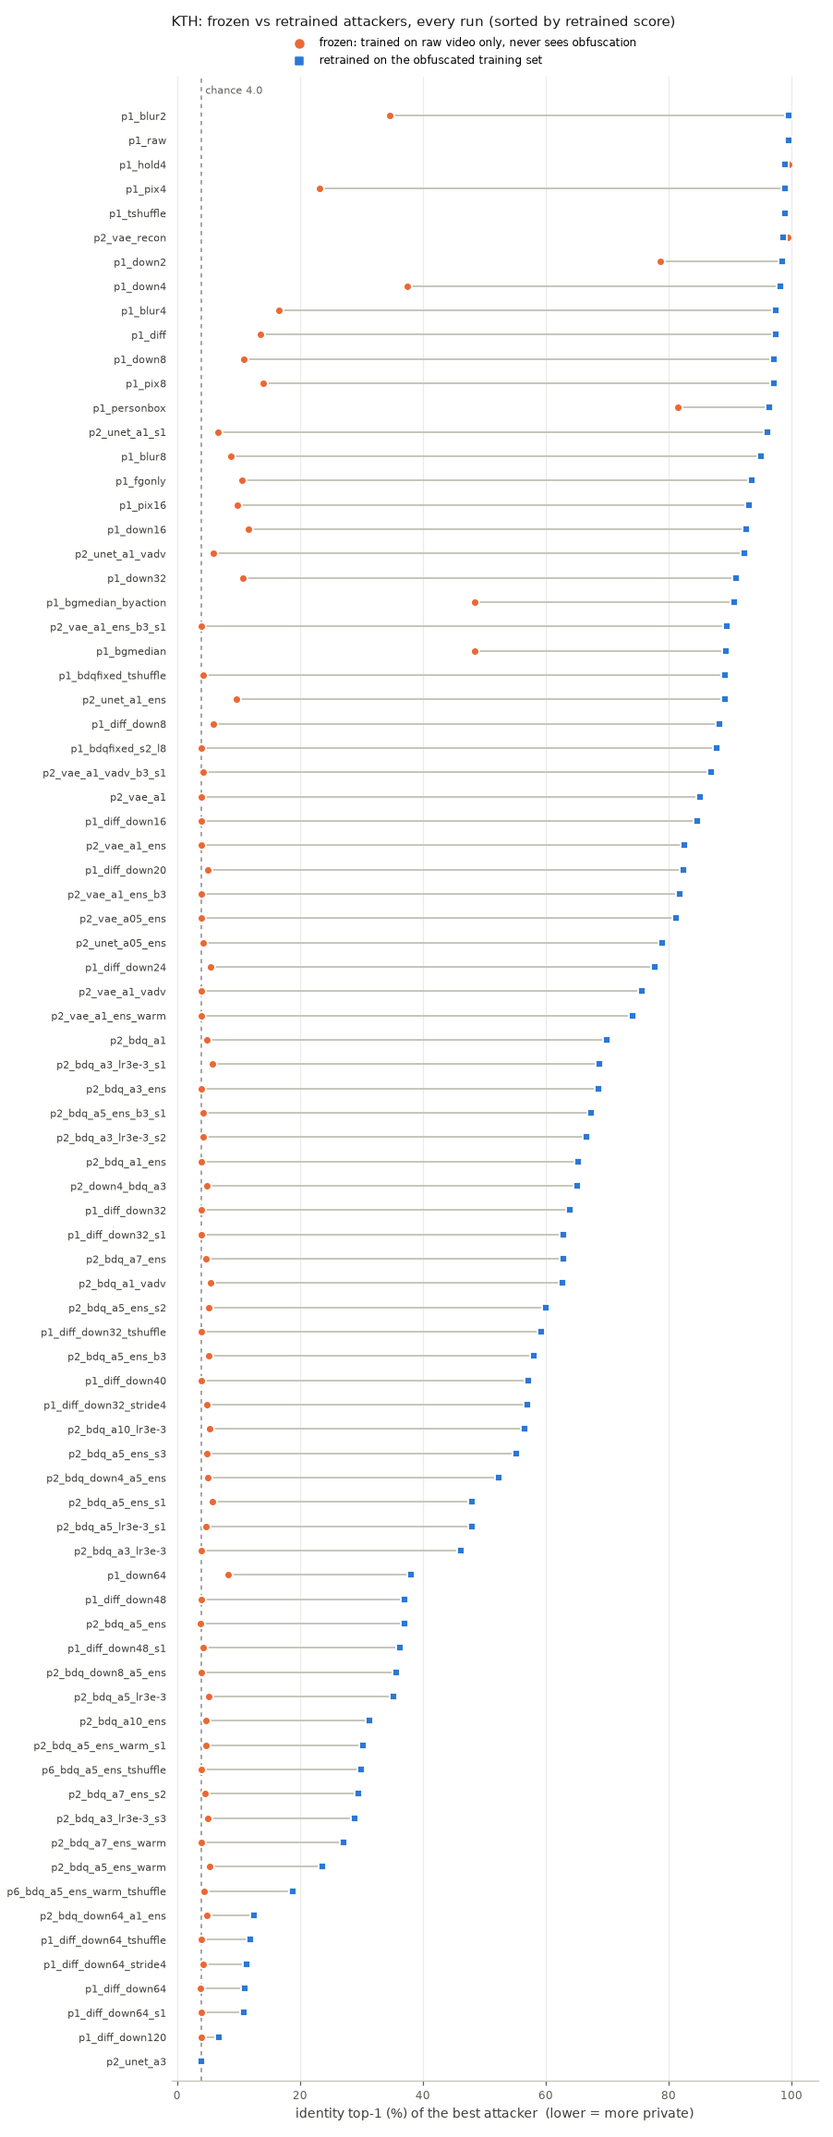
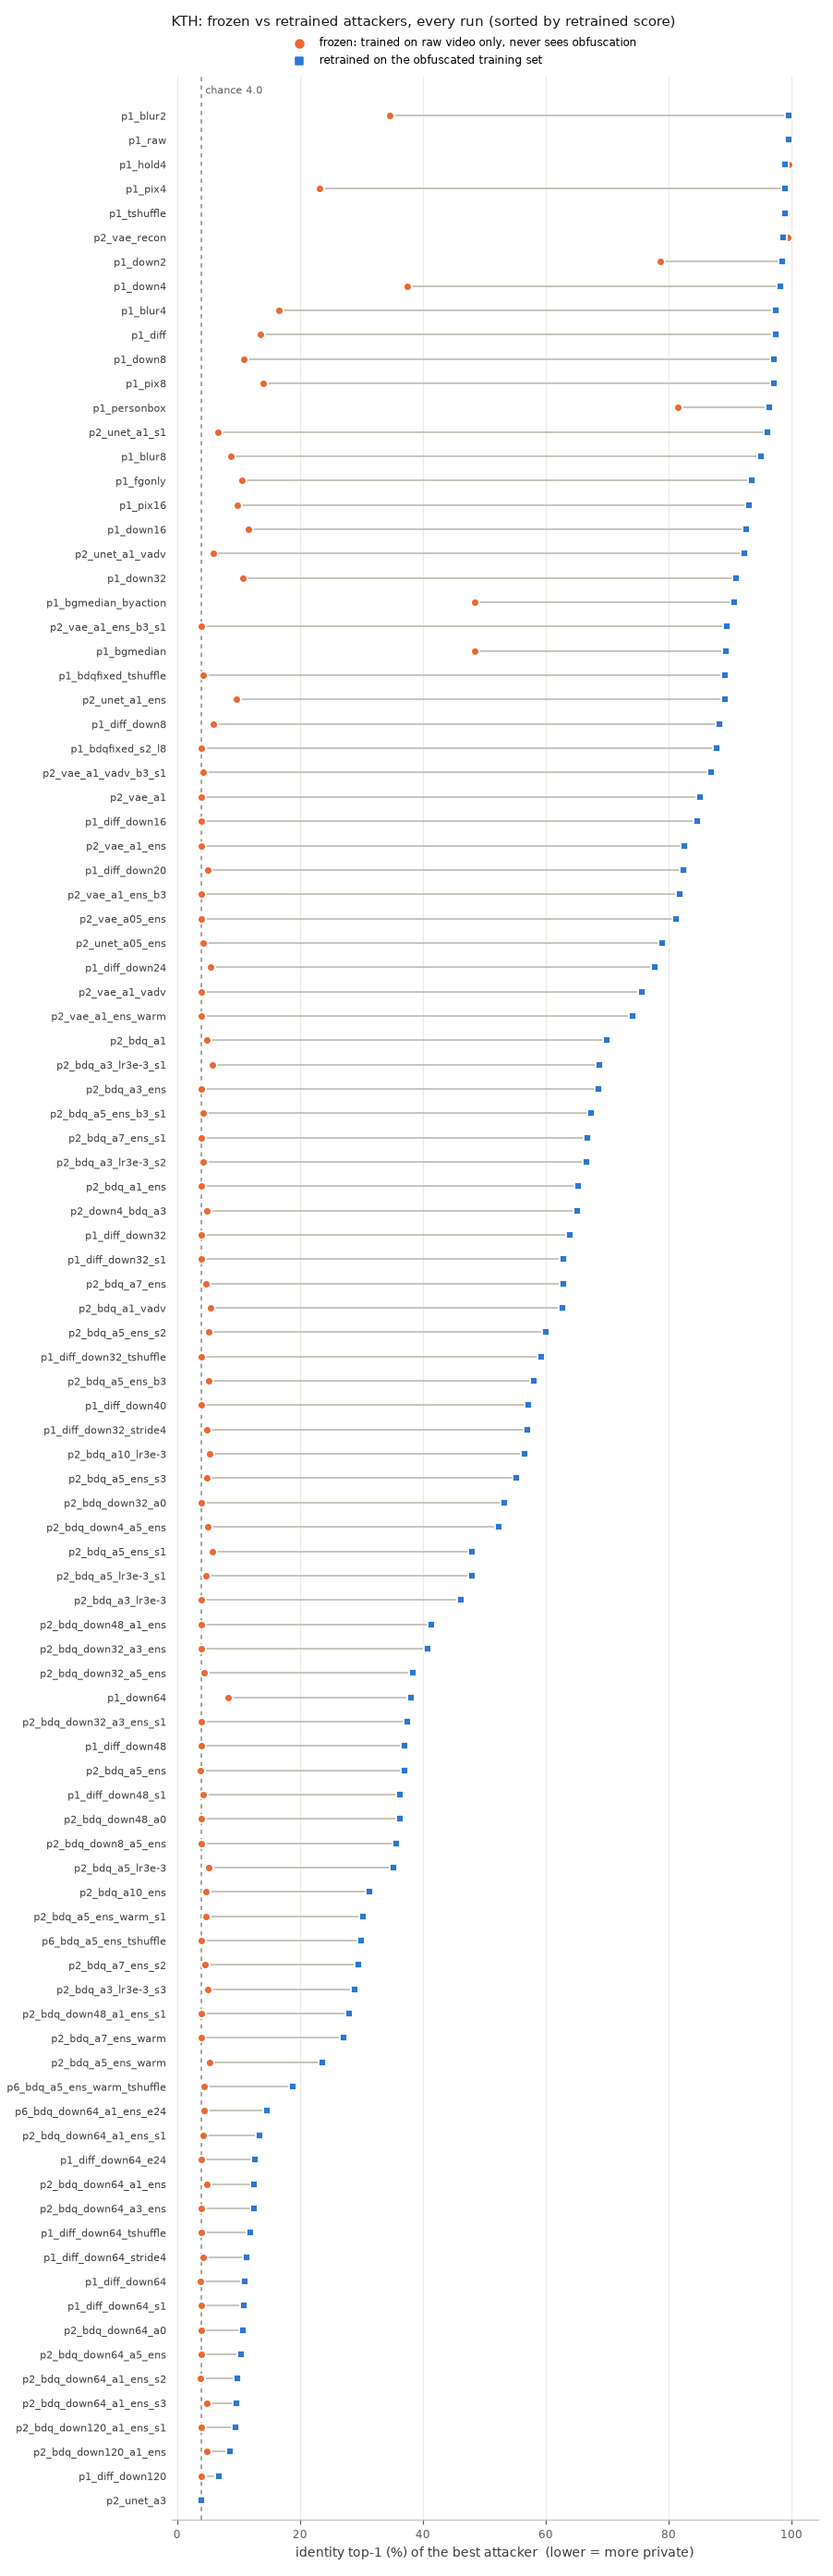
Frozen-attacker report: fix floor for computed-floor datasets; add VP-HMDB51 and Charades

diff --git a/research/privacy-obfuscation/scripts/frozen_attackers.py b/research/privacy-obfuscation/scripts/frozen_attackers.py
@@ -23,6 +23,7 @@ INFO = {
     "kth": dict(name="KTH", task="person", metric="identity top-1 (%)", floor=4.0, floor_label="chance 4.0"),
     "ucf101_vp": dict(name="VP-UCF101", task="attr", metric="attribute cMAP (%)", floor=58.7, floor_label="blind floor 58.7"),
     "hmdb51_vp": dict(name="VP-HMDB51", task="attr", metric="attribute cMAP (%)", floor=None, floor_label="blind floor"),
+    "charades": dict(name="Charades", task="person", metric="identity top-1 (%)", floor=100 / 90, floor_label="chance 1.1"),
 }
 
 
@@ -57,8 +58,7 @@ def f1(v):
     return "-" if v is None else f"{v:.1f}"
 
 
-def figure(ds, rs, path):
-    info = INFO[ds]
+def figure(ds, rs, path, info):
     rs = [r for r in rs if r["split"] in ("ilic", "s1", None)]
     n = len(rs)
     fig, ax = plt.subplots(figsize=(8.2, 0.24 * n + 1.6))
@@ -114,7 +114,7 @@ def main():
             info["floor_label"] = f"blind floor {info['floor']:.1f}"
 
         fig_path = os.path.join(ROOT, "results", "figures", f"frozen_vs_retrained_{ds}.png")
-        figure(ds, rs, fig_path)
+        figure(ds, rs, fig_path, info)
         non_raw = [r for r in rs if r["anon"]["type"] != "raw"]
         near_floor = [r for r in non_raw if r["frozen"] - info["floor"] < 0.25 * (r["retrained"] - info["floor"])]
         gaps = sorted(r["retrained"] - r["frozen"] for r in non_raw)

diff --git a/research/privacy-obfuscation/results/frozen_attackers.md b/research/privacy-obfuscation/results/frozen_attackers.md
@@ -11,8 +11,8 @@ Privacy is the best attacker's score (frame ResNet-50 or video R3D-18; DINOv2 ru
 
 ![frozen vs retrained](figures/frozen_vs_retrained_kth.png)
 
-- 91 obfuscated runs. Median gap retrained - frozen: **55.2 points**.
-- In 80 of 91 runs the frozen attacker recovers less than a quarter of what the retrained one does (above the floor): under the frozen protocol they would look private.
+- 115 obfuscated runs. Median gap retrained - frozen: **46.7 points**.
+- In 104 of 115 runs the frozen attacker recovers less than a quarter of what the retrained one does (above the floor): under the frozen protocol they would look private.
 
 | run | split | obfuscation | frozen action | frozen privacy (frame / video) | **frozen best** | **retrained best** | retrained action |
 |---|---|---|---:|---:|---:|---:|---:|
@@ -61,6 +61,7 @@ Privacy is the best attacker's score (frame ResNet-50 or video R3D-18; DINOv2 ru
 | p2_bdq_a3_lr3e-3_s1 | ilic | `bdq` | 32.6 | 4.8 / 5.7 | **5.7** | **68.7** | 94.5 |
 | p2_bdq_a3_ens | ilic | `bdq` | 31.6 | 4.0 / 3.8 | **4.0** | **68.6** | 96.7 |
 | p2_bdq_a5_ens_b3_s1 | ilic | `bdq` | 42.0 | 4.2 / 4.0 | **4.2** | **67.4** | 96.3 |
+| p2_bdq_a7_ens_s1 | ilic | `bdq` | 44.0 | 4.0 / 3.8 | **4.0** | **66.7** | 95.2 |
 | p2_bdq_a3_lr3e-3_s2 | ilic | `bdq` | 34.3 | 4.2 / 4.2 | **4.2** | **66.6** | 91.6 |
 | p2_bdq_a1_ens | ilic | `bdq` | 37.5 | 4.0 / 4.0 | **4.0** | **65.2** | 94.1 |
 | p2_down4_bdq_a3 | ilic | `down (factor 4) -> bdq` | 49.5 | 4.8 / 3.3 | **4.8** | **65.1** | 93.1 |
@@ -78,18 +79,28 @@ Privacy is the best attacker's score (frame ResNet-50 or video R3D-18; DINOv2 ru
 | p1_diff_down40 | ilic | `diff (gain 4.0) -> down (factor 40)` | 16.7 | 2.2 / 4.0 | **4.0** | **57.2** | 87.8 |
 | p1_diff_down32_stride4 | ilic | `diff (gain 4.0) -> down (factor 32)` | 16.7 | 4.8 / 4.0 | **4.8** | **57.0** | 93.6 |
 | p2_bdq_a10_lr3e-3 | ilic | `bdq` | 27.8 | 5.2 / 5.4 | **5.4** | **56.5** | 90.8 |
+| p2_bdq_a3_scenario_s2 | scenario | `bdq` | 25.2 | 4.0 / 4.2 | **4.2** | **55.7** | 73.7 |
 | p2_bdq_a5_ens_s3 | ilic | `bdq` | 29.3 | 4.8 / 4.7 | **4.8** | **55.2** | 92.3 |
 | p2_bdq_a5_ens_scenario | scenario | `bdq` | 45.2 | 4.3 / 4.8 | **4.8** | **54.0** | 78.7 |
+| p2_bdq_down32_a0 | ilic | `bdq -> down (factor 32)` | 16.7 | 4.0 / 3.5 | **4.0** | **53.2** | 89.5 |
 | p2_bdq_down4_a5_ens | ilic | `bdq -> down (factor 4)` | 23.7 | 3.8 / 5.0 | **5.0** | **52.3** | 90.6 |
 | p1_diff_down16_scenario | scenario | `diff (gain 4.0) -> down (factor 16)` | 16.5 | 2.0 / 4.0 | **4.0** | **50.7** | 81.0 |
+| p1_diff_down24_scenario | scenario | `diff (gain 4.0) -> down (factor 24)` | 16.7 | 4.0 / 2.7 | **4.0** | **50.3** | 69.0 |
 | p2_bdq_a5_ens_s1 | ilic | `bdq` | 30.1 | 5.2 / 5.7 | **5.7** | **48.0** | 86.5 |
 | p2_bdq_a5_lr3e-3_s1 | ilic | `bdq` | 26.9 | 4.7 / 4.2 | **4.7** | **48.0** | 90.3 |
 | p2_bdq_a3_lr3e-3 | ilic | `bdq` | 35.8 | 4.0 / 3.8 | **4.0** | **46.2** | 89.1 |
+| p2_bdq_a3_scenario_s3 | scenario | `bdq` | 39.7 | 5.7 / 3.7 | **5.7** | **44.7** | 74.2 |
 | p1_diff_down32_scenario | scenario | `diff (gain 4.0) -> down (factor 32)` | 16.7 | 3.8 / 2.2 | **3.8** | **42.7** | 58.0 |
+| p2_bdq_down48_a1_ens | ilic | `bdq -> down (factor 48)` | 16.7 | 4.0 / 4.0 | **4.0** | **41.3** | 82.9 |
+| p2_bdq_down32_a3_ens | ilic | `bdq -> down (factor 32)` | 16.7 | 3.8 / 4.0 | **4.0** | **40.8** | 93.0 |
+| p2_bdq_a3_scenario_s1 | scenario | `bdq` | 34.2 | 4.0 / 4.0 | **4.0** | **39.3** | 64.5 |
+| p2_bdq_down32_a5_ens | ilic | `bdq -> down (factor 32)` | 16.7 | 4.0 / 4.3 | **4.3** | **38.3** | 91.8 |
 | p1_down64 | ilic | `down (factor 64)` | 16.7 | 4.7 / 8.4 | **8.4** | **38.1** | 48.7 |
+| p2_bdq_down32_a3_ens_s1 | ilic | `bdq -> down (factor 32)` | 16.7 | 4.0 / 4.0 | **4.0** | **37.5** | 92.1 |
 | p1_diff_down48 | ilic | `diff (gain 4.0) -> down (factor 48)` | 16.7 | 2.7 / 4.0 | **4.0** | **37.0** | 83.6 |
 | p2_bdq_a5_ens | ilic | `bdq` | 28.8 | 3.8 / 3.7 | **3.8** | **37.0** | 84.4 |
 | p1_diff_down48_s1 | ilic | `diff (gain 4.0) -> down (factor 48)` | 16.7 | 4.2 / 4.0 | **4.2** | **36.3** | 82.4 |
+| p2_bdq_down48_a0 | ilic | `bdq -> down (factor 48)` | 16.7 | 4.0 / 4.0 | **4.0** | **36.3** | 83.3 |
 | p2_bdq_down8_a5_ens | ilic | `bdq -> down (factor 8)` | 16.7 | 4.0 / 2.8 | **4.0** | **35.6** | 82.8 |
 | p2_bdq_a5_lr3e-3 | ilic | `bdq` | 32.1 | 5.2 / 4.7 | **5.2** | **35.3** | 76.9 |
 | p2_bdq_a10_ens | ilic | `bdq` | 31.3 | 4.3 / 4.7 | **4.7** | **31.3** | 71.2 |
@@ -97,17 +108,30 @@ Privacy is the best attacker's score (frame ResNet-50 or video R3D-18; DINOv2 ru
 | p6_bdq_a5_ens_tshuffle | ilic | `bdq -> tshuffle` | 28.8 | 3.8 / 4.0 | **4.0** | **29.9** | 76.3 |
 | p2_bdq_a7_ens_s2 | ilic | `bdq` | 30.8 | 4.5 / 3.7 | **4.5** | **29.4** | 67.4 |
 | p2_bdq_a3_lr3e-3_s3 | ilic | `bdq` | 28.9 | 5.0 / 4.7 | **5.0** | **28.9** | 68.4 |
+| p2_bdq_down48_a1_ens_s1 | ilic | `bdq -> down (factor 48)` | 16.7 | 4.0 / 4.0 | **4.0** | **27.9** | 87.3 |
 | p2_bdq_a7_ens_warm | ilic | `bdq` | 30.3 | 3.8 / 4.0 | **4.0** | **27.1** | 64.7 |
 | p1_diff_down48_scenario | scenario | `diff (gain 4.0) -> down (factor 48)` | 16.7 | 4.0 / 4.0 | **4.0** | **26.5** | 44.0 |
 | p2_bdq_a3_scenario | scenario | `bdq` | 30.5 | 4.0 / 3.5 | **4.0** | **24.7** | 55.8 |
 | p2_bdq_a5_ens_warm | ilic | `bdq` | 28.6 | 5.4 / 4.0 | **5.4** | **23.6** | 61.4 |
 | p6_bdq_a5_ens_warm_tshuffle | ilic | `bdq -> tshuffle` | 27.6 | 4.3 / 4.0 | **4.3** | **18.9** | 56.0 |
+| p6_bdq_down64_a1_ens_e24 | ilic | `bdq -> down (factor 64)` | 16.7 | 4.3 / 4.0 | **4.3** | **14.5** | 82.4 |
+| p2_bdq_down64_a1_ens_s1 | ilic | `bdq -> down (factor 64)` | 16.7 | 4.2 / 4.0 | **4.2** | **13.4** | 82.6 |
+| p1_diff_down64_e24 | ilic | `diff (gain 4.0) -> down (factor 64)` | 16.7 | 4.0 / 4.0 | **4.0** | **12.7** | 71.2 |
+| p2_bdq_down64_a1_ens_scenario | scenario | `bdq -> down (factor 64)` | 16.7 | 4.0 / 4.0 | **4.0** | **12.7** | 50.8 |
 | p2_bdq_down64_a1_ens | ilic | `bdq -> down (factor 64)` | 16.7 | 4.0 / 4.8 | **4.8** | **12.5** | 82.1 |
+| p2_bdq_down64_a3_ens | ilic | `bdq -> down (factor 64)` | 16.7 | 4.0 / 4.0 | **4.0** | **12.5** | 82.9 |
+| p2_bdq_a5_ens_warm_scenario | scenario | `bdq` | 17.8 | 4.3 / 4.0 | **4.3** | **12.5** | 32.7 |
 | p1_diff_down64_tshuffle | ilic | `diff (gain 4.0) -> down (factor 64) -> tshuffle` | 16.7 | 3.2 / 4.0 | **4.0** | **11.9** | 64.2 |
 | p1_diff_down64_stride4 | ilic | `diff (gain 4.0) -> down (factor 64)` | 16.7 | 1.8 / 4.2 | **4.2** | **11.4** | 71.6 |
 | p1_diff_down64 | ilic | `diff (gain 4.0) -> down (factor 64)` | 16.7 | 3.8 / 3.8 | **3.8** | **11.0** | 69.9 |
 | p1_diff_down64_s1 | ilic | `diff (gain 4.0) -> down (factor 64)` | 16.7 | 4.0 / 3.7 | **4.0** | **10.9** | 70.7 |
+| p2_bdq_down64_a0 | ilic | `bdq -> down (factor 64)` | 16.7 | 4.0 / 4.0 | **4.0** | **10.7** | 81.8 |
+| p2_bdq_down64_a5_ens | ilic | `bdq -> down (factor 64)` | 16.7 | 4.0 / 4.0 | **4.0** | **10.4** | 80.9 |
+| p2_bdq_down64_a1_ens_s2 | ilic | `bdq -> down (factor 64)` | 16.7 | 3.8 / 3.7 | **3.8** | **9.9** | 76.9 |
+| p2_bdq_down64_a1_ens_s3 | ilic | `bdq -> down (factor 64)` | 16.7 | 4.8 / 4.0 | **4.8** | **9.7** | 80.1 |
+| p2_bdq_down120_a1_ens_s1 | ilic | `bdq -> down (factor 120)` | 16.7 | 3.8 / 4.0 | **4.0** | **9.5** | 75.8 |
 | p1_diff_down64_scenario | scenario | `diff (gain 4.0) -> down (factor 64)` | 16.7 | 4.0 / 2.8 | **4.0** | **9.5** | 23.3 |
+| p2_bdq_down120_a1_ens | ilic | `bdq -> down (factor 120)` | 16.7 | 4.8 / 4.0 | **4.8** | **8.5** | 75.9 |
 | p1_diff_down120 | ilic | `diff (gain 4.0) -> down (factor 120)` | 16.7 | 3.2 / 4.0 | **4.0** | **6.9** | 54.2 |
 | p2_unet_a3 | ilic | `unet3d` | 16.7 | 4.0 / 4.0 | **4.0** | **4.0** | 16.7 |
 
@@ -115,8 +139,8 @@ Privacy is the best attacker's score (frame ResNet-50 or video R3D-18; DINOv2 ru
 
 ![frozen vs retrained](figures/frozen_vs_retrained_ucf101_vp.png)
 
-- 22 obfuscated runs. Median gap retrained - frozen: **9.5 points**.
-- In 11 of 22 runs the frozen attacker recovers less than a quarter of what the retrained one does (above the floor): under the frozen protocol they would look private.
+- 26 obfuscated runs. Median gap retrained - frozen: **9.5 points**.
+- In 13 of 26 runs the frozen attacker recovers less than a quarter of what the retrained one does (above the floor): under the frozen protocol they would look private.
 
 | run | split | obfuscation | frozen action | frozen privacy (frame / video) | **frozen best** | **retrained best** | retrained action |
 |---|---|---|---:|---:|---:|---:|---:|
@@ -135,8 +159,12 @@ Privacy is the best attacker's score (frame ResNet-50 or video R3D-18; DINOv2 ru
 | p3_vae_a1_ens | s1 | `vae_latent` | 1.6 | 60.2 / 61.0 | **61.0** | **72.2** | 78.0 |
 | p3_down8 | s1 | `down (factor 8)` | 3.1 | 64.3 / 62.5 | **64.3** | **72.1** | 72.2 |
 | p3_pix8 | s1 | `pixelate (factor 8)` | 2.6 | 62.6 / 60.0 | **62.6** | **72.1** | 72.6 |
+| p6_vae_a1_ens_ctx8 | s1 | `vae_latent` | 2.7 | 58.2 / 60.2 | **60.2** | **71.8** | 77.4 |
+| p3_personbox_blur_down8 | s1 | `person_box (mode blur, every 8, dilate 6, sigma 8.0) -> down (factor 8)` | 3.6 | 62.4 / 60.0 | **62.4** | **71.4** | 59.3 |
+| p3_bdq_down16_a3_ens | s1 | `bdq -> down (factor 16)` | 1.6 | 62.6 / 59.4 | **62.6** | **71.3** | 62.0 |
 | p3_diff_down16 | s1 | `diff (gain 4.0) -> down (factor 16)` | 1.9 | 61.7 / 60.2 | **61.7** | **71.0** | 63.7 |
 | p3_pix16 | s1 | `pixelate (factor 16)` | 1.6 | 60.9 / 60.0 | **60.9** | **70.9** | 55.2 |
+| p3_personbox_blur_down16 | s1 | `person_box (mode blur, every 8, dilate 6, sigma 8.0) -> down (factor 16)` | 1.7 | 60.7 / 58.2 | **60.7** | **70.4** | 48.6 |
 | p3_down16 | s1 | `down (factor 16)` | 2.2 | 61.0 / 58.1 | **61.0** | **70.3** | 53.7 |
 | p3_blur8 | s1 | `blur (sigma 8)` | 1.7 | 61.2 / 58.2 | **61.2** | **70.3** | 58.9 |
 | p3_vae_a1 | s1 | `vae_latent` | 1.5 | 60.5 / 59.8 | **60.5** | **70.2** | 66.0 |
@@ -144,3 +172,37 @@ Privacy is the best attacker's score (frame ResNet-50 or video R3D-18; DINOv2 ru
 | p3_diff_down32 | s1 | `diff (gain 4.0) -> down (factor 32)` | 0.7 | 58.3 / 57.4 | **58.3** | **68.9** | 42.9 |
 | p3_blur16 | s1 | `blur (sigma 16)` | 1.1 | 59.2 / 59.4 | **59.4** | **68.7** | 40.0 |
 | p3_diff_down64 | s1 | `diff (gain 4.0) -> down (factor 64)` | 1.0 | 59.9 / 58.0 | **59.9** | **65.1** | 17.8 |
+
+## VP-HMDB51 (attribute cMAP (%); blind floor 58.8)
+
+![frozen vs retrained](figures/frozen_vs_retrained_hmdb51_vp.png)
+
+- 9 obfuscated runs. Median gap retrained - frozen: **5.4 points**.
+- In 1 of 9 runs the frozen attacker recovers less than a quarter of what the retrained one does (above the floor): under the frozen protocol they would look private.
+
+| run | split | obfuscation | frozen action | frozen privacy (frame / video) | **frozen best** | **retrained best** | retrained action |
+|---|---|---|---:|---:|---:|---:|---:|
+| p7_raw | s1 | `raw` | 65.8 | 74.6 / 75.9 | **75.9** | **75.2** | 64.9 |
+| p7_diff | s1 | `diff (gain 4.0)` | 10.3 | 65.0 / 67.0 | **67.0** | **72.8** | 59.9 |
+| p7_bdq_a3_ens | s1 | `bdq` | 11.8 | 66.3 / 67.3 | **67.3** | **72.7** | 63.1 |
+| p7_down8 | s1 | `down (factor 8)` | 3.3 | 65.0 / 61.8 | **65.0** | **70.3** | 45.6 |
+| p7_pix8 | s1 | `pixelate (factor 8)` | 4.1 | 62.2 / 59.9 | **62.2** | **69.5** | 44.5 |
+| p7_diff_down16 | s1 | `diff (gain 4.0) -> down (factor 16)` | 2.0 | 61.4 / 60.9 | **61.4** | **69.5** | 34.4 |
+| p7_personbox_blur | s1 | `person_box (mode blur, every 8, dilate 6, sigma 8.0)` | 28.8 | 64.4 / 66.6 | **66.6** | **69.3** | 45.4 |
+| p7_personbox | s1 | `person_box (mode black, every 8, dilate 6)` | 27.7 | 62.6 / 67.3 | **67.3** | **68.8** | 38.4 |
+| p7_blur8 | s1 | `blur (sigma 8)` | 1.7 | 62.2 / 60.4 | **62.2** | **68.3** | 32.0 |
+| p7_down16 | s1 | `down (factor 16)` | 2.2 | 62.8 / 59.7 | **62.8** | **66.6** | 29.7 |
+
+## Charades (identity top-1 (%); chance 1.1)
+
+![frozen vs retrained](figures/frozen_vs_retrained_charades.png)
+
+- 3 obfuscated runs. Median gap retrained - frozen: **74.1 points**.
+- In 3 of 3 runs the frozen attacker recovers less than a quarter of what the retrained one does (above the floor): under the frozen protocol they would look private.
+
+| run | split | obfuscation | frozen action | frozen privacy (frame / video) | **frozen best** | **retrained best** | retrained action |
+|---|---|---|---:|---:|---:|---:|---:|
+| p8_raw | s1 | `raw` | 16.2 | 89.1 / 94.0 | **94.0** | **93.5** | 15.8 |
+| p8_blur8 | s1 | `blur (sigma 8)` | 4.7 | 7.4 / 8.2 | **8.2** | **86.9** | 9.0 |
+| p8_down16 | s1 | `down (factor 16)` | 4.8 | 6.8 / 10.9 | **10.9** | **85.0** | 8.4 |
+| p8_bdq_a3_ens | s1 | `bdq` | 4.4 | 1.0 / 3.6 | **3.6** | **24.2** | 6.0 |
